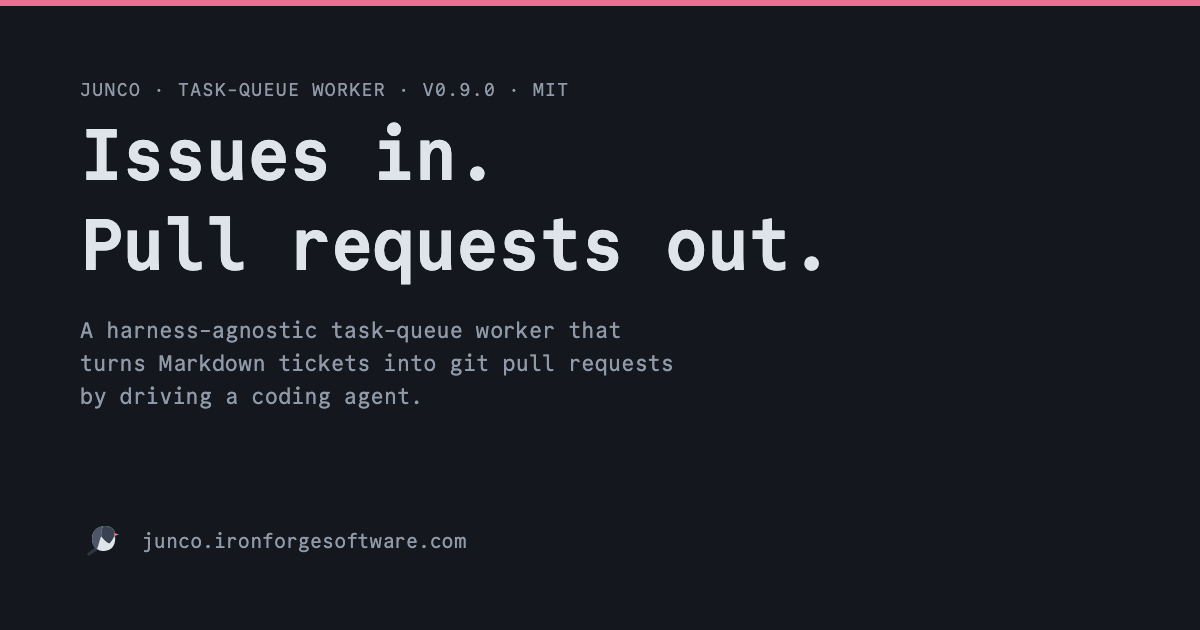
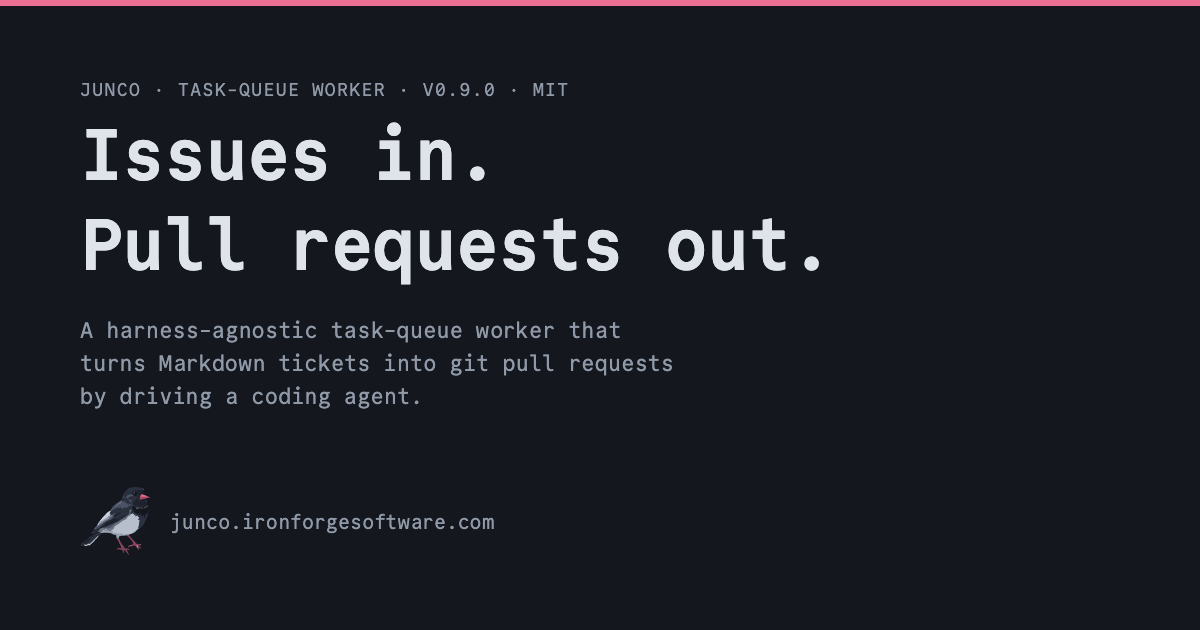
feat: traced naturalist junco mascot — hero and og card
Vector reconstruction in the style of the approved reference: 178 traced
paths, slate-junco plumage, white outer tail feather. Ships as
site/assets/junco.svg via <img>; unused --junco-* hero tokens pruned
(header mark keeps hood-1/mantle-2/tail).

Claude-Session: https://claude.ai/code/session_01XENKt2h3ZPXWM5J5GTrSZe

Changed region(s): [[0.0617, 0.7841, 0.4317, 0.8746]]

diff --git a/site/index.html b/site/index.html
@@ -84,37 +84,7 @@
         <p class="micro">MIT · runs entirely on your machine · local endpoint or hosted provider</p>
 
         <div class="spec-perch">
-          <svg class="perch" width="170" height="136" viewBox="0 0 200 160" aria-hidden="true">
-            <defs>
-              <radialGradient id="j-belly" cx="55%" cy="45%" r="70%">
-                <stop offset="0%" style="stop-color: var(--junco-belly-1)"></stop>
-                <stop offset="70%" style="stop-color: var(--junco-belly-2)"></stop>
-                <stop offset="100%" style="stop-color: var(--junco-belly-3)"></stop>
-              </radialGradient>
-              <linearGradient id="j-hood" x1="1" y1="0" x2="0" y2="1">
-                <stop offset="0%" style="stop-color: var(--junco-hood-1)"></stop>
-                <stop offset="100%" style="stop-color: var(--junco-hood-2)"></stop>
-              </linearGradient>
-              <linearGradient id="j-mantle" x1="1" y1="0" x2="0" y2="1">
-                <stop offset="0%" style="stop-color: var(--junco-mantle-1)"></stop>
-                <stop offset="100%" style="stop-color: var(--junco-mantle-2)"></stop>
-              </linearGradient>
-              <filter id="j-soft"><feGaussianBlur stdDeviation="3"></feGaussianBlur></filter>
-            </defs>
-            <ellipse fill="var(--shadow)" opacity="0.5" filter="url(#j-soft)" cx="100" cy="157" rx="48" ry="3.5"></ellipse>
-            <path fill="var(--junco-tail)" d="M82 100 L30 142 L40 150 L90 116 Z"></path>
-            <path fill="var(--ink)" d="M89 118 L40 150 L21 149 L32 154 L50 149 L88 122 Z"></path>
-            <path fill="url(#j-belly)" d="M160 52 C160 28 138 14 114 14 C82 15 58 34 55 64 C52 94 66 124 102 128 C132 131 154 114 159 86 C161 74 160 62 160 52 Z"></path>
-            <path fill="url(#j-mantle)" d="M104 14.5 C80 16 58 34 55 64 C53.5 79 56 95 64 108 C68 114 73 117 78 118 C84 102 88 80 96 60 C97 44 99 26 104 14.5 Z"></path>
-            <path fill="var(--junco-wingline)" opacity="0.45" d="M92 66 C78 78 72 94 76 110 C80 116 84 118 88 118 C86 100 88 84 96 62 Z"></path>
-            <path fill="none" stroke="var(--junco-wingline)" stroke-width="1.4" d="M86 74 C76 86 73 100 77 114 M94 68 C84 82 81 98 85 114 M101 63 C92 78 89 96 93 112"></path>
-            <path fill="url(#j-hood)" d="M60 58 C56 42 64 26 84 18 C99 13 112 13 120 14 C141 15 160 30 160 52 C160 59 158 64 153 68 C146 82 134 95 119 99 C107 102 96 100 90 91 C82 84 72 74 66 68 C63 65 61 61 60 58 Z"></path>
-            <path fill="var(--accent)" d="M157 46 L178 52 L157 59 C154 55 154 50 157 46 Z"></path>
-            <path fill="var(--junco-bill-dk)" d="M157 52 L178 52 L157 59 C155 57 155 54 157 52 Z"></path>
-            <circle fill="var(--shadow)" cx="138" cy="38" r="4.5"></circle>
-            <circle fill="var(--junco-belly-1)" cx="140" cy="36" r="1.3"></circle>
-            <path stroke="var(--junco-bill-dk)" stroke-width="2.5" fill="none" d="M98 127 L96 157 M90 157 L103 157 M118 128 L120 157 M112 157 L125 157"></path>
-          </svg>
+          <img class="perch" src="assets/junco.svg" alt="" width="195" height="196">
         </div>
         <dl class="spec">
           <div><dt>designation</dt><dd>harness-agnostic task-queue worker · local daemon</dd></div>

diff --git a/og.html b/og.html
@@ -42,8 +42,8 @@
       }
       .og .mark {
         display: inline-block;
-        width: 44px;
-        height: 35px;
+        width: 72px;
+        height: 72px;
       }
     </style>
   </head>
@@ -58,13 +58,7 @@
         </p>
       </div>
       <p class="foot-row">
-        <svg class="mark" viewBox="0 0 200 160" aria-hidden="true">
-          <path fill="#2f3542" d="M82 100 L30 142 L40 150 L90 116 Z" />
-          <path fill="#dfe3ea" d="M160 52 C160 28 138 14 114 14 C82 15 58 34 55 64 C52 94 66 124 102 128 C132 131 154 114 159 86 C161 74 160 62 160 52 Z" />
-          <path fill="#4d5566" d="M104 14.5 C80 16 58 34 55 64 C53.5 79 56 95 64 108 C68 114 73 117 78 118 C84 102 88 80 96 60 C97 44 99 26 104 14.5 Z" />
-          <path fill="#3a4150" d="M104 14.5 C108 14 111 14 114 14 C138 13 160 30 160 52 C160 58 158 62 154 65 C148 76 141 87 134 94 C122 88 106 74 96 60 C97 44 99 26 104 14.5 Z" />
-          <path fill="#eb6f92" d="M157 46 L178 52 L157 59 C154 55 154 50 157 46 Z" />
-        </svg>
+        <img class="mark" src="site/assets/junco.svg" alt="">
         junco.ironforgesoftware.com
       </p>
     </div>

diff --git a/site/styles.css b/site/styles.css
@@ -29,15 +29,8 @@
   --shadow: #0b0d12;
   --glyph: #2c3340;
   --junco-hood-1: #3a4150;
-  --junco-hood-2: #535c6e;
-  --junco-mantle-1: #68738a;
   --junco-mantle-2: #4d5566;
-  --junco-belly-1: #eef1f6;
-  --junco-belly-2: #dfe3ea;
-  --junco-belly-3: #bfc6d3;
-  --junco-wingline: #454d5e;
   --junco-tail: #2f3542;
-  --junco-bill-dk: #c85578;
   --lh: 1.5rem;
   --mono:
     "Commit Mono", ui-monospace, "SF Mono", Menlo, Consolas, "DejaVu Sans Mono", monospace;
@@ -218,7 +211,7 @@ h1 {
   color: var(--ink-muted);
   font-size: 0.75rem;
   line-height: var(--lh);
-  margin-block: calc(0.5 * var(--lh)) calc(5 * var(--lh));
+  margin-block: calc(0.5 * var(--lh)) calc(8 * var(--lh));
 }
 
 /* spec-sheet key/value table — the junco perches on its top rule */